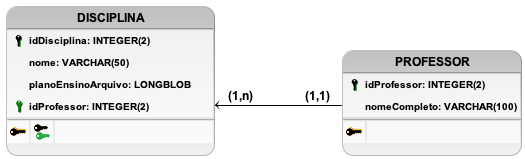
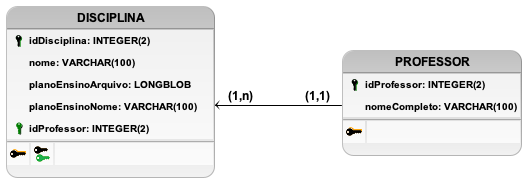
Adiciona campo para nome do arquivo

diff --git a/src/main/java/dao/DisciplinaDAO.java b/src/main/java/dao/DisciplinaDAO.java
@@ -19,19 +19,19 @@ public class DisciplinaDAO {
         Disciplina disciplina = new Disciplina(disciplinaDTO);
 
         try (Connection connection = ConnectionFactory.getConnection()) {
-            String sql = "INSERT INTO DISCIPLINA(nome, planoEnsinoArquivo, idProfessor) " + "VALUES (?, ?, ?)";
+            String sql = "INSERT INTO DISCIPLINA(nome, planoEnsinoArquivo, planoEnsinoNome, idProfessor) " + "VALUES (?, ?, ?, ?)";
 
             try (PreparedStatement pstm = connection.prepareStatement(sql, Statement.RETURN_GENERATED_KEYS)) {
                 pstm.setString(1, disciplina.getNome());
                 pstm.setBytes(2, disciplina.getPlanoEnsinoArquivo());
-                pstm.setInt(3, disciplina.getProfessor().getIdProfessor());
+                pstm.setString(3, disciplina.getPlanoEnsinoNome());
+                pstm.setInt(4, disciplina.getProfessor().getIdProfessor());
 
                 pstm.execute();
 
                 try (ResultSet rst = pstm.getGeneratedKeys()) {
-                    while (rst.next()) {
+                    while (rst.next())
                         disciplina.setIdDisciplina(rst.getInt(1));
-                    }
                 }
             }
         }
@@ -44,7 +44,7 @@ public class DisciplinaDAO {
         List<DisciplinaDTO> disciplinas = new ArrayList<DisciplinaDTO>();
 
         try (Connection connection = ConnectionFactory.getConnection()) {
-            String sql = "SELECT d.idDisciplina, d.nome, d.planoEnsinoArquivo, " + "p.idProfessor, p.nomeCompleto "
+            String sql = "SELECT d.idDisciplina, d.nome, d.planoEnsinoArquivo, d.planoEnsinoNome, " + "p.idProfessor, p.nomeCompleto "
                     + "FROM faculdadeHepta.DISCIPLINA d " + "INNER JOIN faculdadeHepta.PROFESSOR p on d.idProfessor = p.idProfessor";
 
             try (PreparedStatement pstm = connection.prepareStatement(sql)) {
@@ -54,7 +54,7 @@ public class DisciplinaDAO {
                     Disciplina disciplina;
                     while (rst.next()) {
                         disciplina = new Disciplina(rst.getInt("idDisciplina"), rst.getString("nome"), rst.getBytes("planoEnsinoArquivo"),
-                                new Professor(rst.getInt("idProfessor"), rst.getString("nomeCompleto")));
+                                rst.getString("planoEnsinoNome"), new Professor(rst.getInt("idProfessor"), rst.getString("nomeCompleto")));
 
                         disciplinas.add(new DisciplinaDTO(disciplina));
                     }
@@ -69,8 +69,9 @@ public class DisciplinaDAO {
         Disciplina disciplina = new Disciplina(disciplinaDTO);
 
         try (Connection connection = ConnectionFactory.getConnection()) {
-            String sql = "UPDATE DISCIPLINA " + "SET nome='" + disciplina.getNome() + "', " + "planoEnsinoArquivo='" + disciplina.getPlanoEnsinoArquivo() + "', "
-                    + "idProfessor='" + disciplina.getProfessor().getIdProfessor() + "' " + "WHERE idDisciplina='" + disciplina.getIdDisciplina() + "'";
+            String sql = "UPDATE DISCIPLINA SET nome='" + disciplina.getNome() + "', planoEnsinoArquivo='" + disciplina.getPlanoEnsinoArquivo()
+                    + "', planoEnsinoNome='" + disciplina.getPlanoEnsinoNome() + "', idProfessor='" + disciplina.getProfessor().getIdProfessor()
+                    + "' WHERE idDisciplina='" + disciplina.getIdDisciplina() + "'";
 
             try (PreparedStatement pstm = connection.prepareStatement(sql)) {
                 pstm.execute();

diff --git a/src/main/java/dto/DisciplinaDTO.java b/src/main/java/dto/DisciplinaDTO.java
@@ -1,22 +1,22 @@
 package dto;
 
-import java.util.Arrays;
-
 import model.Disciplina;
 
 public class DisciplinaDTO {
     private int idDisciplina;
     private String nome;
     private byte[] planoEnsinoArquivo;
+    private String planoEnsinoNome;
     private ProfessorDTO professorDTO;
-    
+
     public DisciplinaDTO() {
     }
 
-    public DisciplinaDTO(int idDisciplina, String nome, byte[] planoEnsinoArquivo, ProfessorDTO professorDTO) {
+    public DisciplinaDTO(int idDisciplina, String nome, byte[] planoEnsinoArquivo, String planoEnsinoNome, ProfessorDTO professorDTO) {
         this.idDisciplina = idDisciplina;
         this.nome = nome;
         this.planoEnsinoArquivo = planoEnsinoArquivo;
+        this.planoEnsinoNome = planoEnsinoNome;
         this.professorDTO = professorDTO;
     }
 
@@ -24,10 +24,11 @@ public class DisciplinaDTO {
         this.nome = nome;
         this.professorDTO = professorDTO;
     }
-    
-    public DisciplinaDTO(String nome, byte[] planoEnsinoArquivo, ProfessorDTO professorDTO) {
+
+    public DisciplinaDTO(String nome, byte[] planoEnsinoArquivo, String planoEnsinoNome, ProfessorDTO professorDTO) {
         this.nome = nome;
         this.planoEnsinoArquivo = planoEnsinoArquivo;
+        this.planoEnsinoNome = planoEnsinoNome;
         this.professorDTO = professorDTO;
     }
 
@@ -35,9 +36,9 @@ public class DisciplinaDTO {
         this.idDisciplina = disciplina.getIdDisciplina();
         this.nome = disciplina.getNome();
         this.planoEnsinoArquivo = disciplina.getPlanoEnsinoArquivo();
+        this.planoEnsinoNome = disciplina.getPlanoEnsinoNome();
         this.professorDTO = new ProfessorDTO(disciplina.getProfessor());
     }
-
 
     public int getIdDisciplina() {
         return idDisciplina;
@@ -63,6 +64,14 @@ public class DisciplinaDTO {
         this.planoEnsinoArquivo = planoEnsinoArquivo;
     }
 
+    public String getPlanoEnsinoNome() {
+        return planoEnsinoNome;
+    }
+
+    public void setPlanoEnsinoNome(String planoEnsinoNome) {
+        this.planoEnsinoNome = planoEnsinoNome;
+    }
+
     public ProfessorDTO getProfessorDTO() {
         return professorDTO;
     }
@@ -73,7 +82,7 @@ public class DisciplinaDTO {
 
     @Override
     public String toString() {
-        return "DisciplinaDTO [idDisciplina=" + idDisciplina + ", nome=" + nome + ", planoEnsinoArquivo=" + Arrays.toString(planoEnsinoArquivo)
-                + ", professorDTO=" + professorDTO + "]";
+        return "DisciplinaDTO [idDisciplina=" + idDisciplina + ", nome=" + nome + ", planoEnsinoNome=" + planoEnsinoNome + ", professorDTO=" + professorDTO
+                + "]";
     }
 }

diff --git a/src/main/java/model/Disciplina.java b/src/main/java/model/Disciplina.java
@@ -1,19 +1,19 @@
 package model;
 
-import java.util.Arrays;
-
 import dto.DisciplinaDTO;
 
 public class Disciplina {
     private int idDisciplina;
     private String nome;
     private byte[] planoEnsinoArquivo;
+    private String planoEnsinoNome;
     private Professor professor;
 
-    public Disciplina(int idDisciplina, String nome, byte[] planoEnsinoArquivo, Professor professor) {
+    public Disciplina(int idDisciplina, String nome, byte[] planoEnsinoArquivo, String planoEnsinoNome, Professor professor) {
         this.idDisciplina = idDisciplina;
         this.nome = nome;
         this.planoEnsinoArquivo = planoEnsinoArquivo;
+        this.planoEnsinoNome = planoEnsinoNome;
         this.professor = professor;
     }
 
@@ -21,6 +21,7 @@ public class Disciplina {
         this.idDisciplina = disciplinaDTO.getIdDisciplina();
         this.nome = disciplinaDTO.getNome();
         this.planoEnsinoArquivo = disciplinaDTO.getPlanoEnsinoArquivo();
+        this.planoEnsinoNome = disciplinaDTO.getPlanoEnsinoNome();
         this.professor = new Professor(disciplinaDTO.getProfessorDTO());
     }
 
@@ -48,6 +49,14 @@ public class Disciplina {
         this.planoEnsinoArquivo = planoEnsinoArquivo;
     }
 
+    public String getPlanoEnsinoNome() {
+        return planoEnsinoNome;
+    }
+
+    public void setPlanoEnsinoNome(String planoEnsinoNome) {
+        this.planoEnsinoNome = planoEnsinoNome;
+    }
+
     public Professor getProfessor() {
         return professor;
     }
@@ -58,8 +67,6 @@ public class Disciplina {
 
     @Override
     public String toString() {
-        return "Disciplina [idDisciplina=" + idDisciplina + ", nome=" + nome + ", planoEnsinoArquivo=" + Arrays.toString(planoEnsinoArquivo) + ", professor="
-                + professor + "]";
+        return "Disciplina [idDisciplina=" + idDisciplina + ", nome=" + nome + ", planoEnsinoNome=" + planoEnsinoNome + ", professor=" + professor + "]";
     }
-
 }

diff --git a/src/test/java/dao/DisciplinaDAOTest.java b/src/test/java/dao/DisciplinaDAOTest.java
@@ -29,8 +29,8 @@ class DisciplinaDAOTest {
             ProfessorDTO professor2 = professorDAO.salvar(new ProfessorDTO("Isaac Newton"));
             listaProfessorDTO.add(professor2);
 
-            listaDisciplinaDTO.add(new DisciplinaDTO("EDA2", null, professor1));
-            listaDisciplinaDTO.add(new DisciplinaDTO("SBD2", null, professor2));
+            listaDisciplinaDTO.add(new DisciplinaDTO("EDA2", null, null, professor1));
+            listaDisciplinaDTO.add(new DisciplinaDTO("SBD2", null, null, professor2));
         } catch (Exception e) {
             System.out.println(e);
         }
